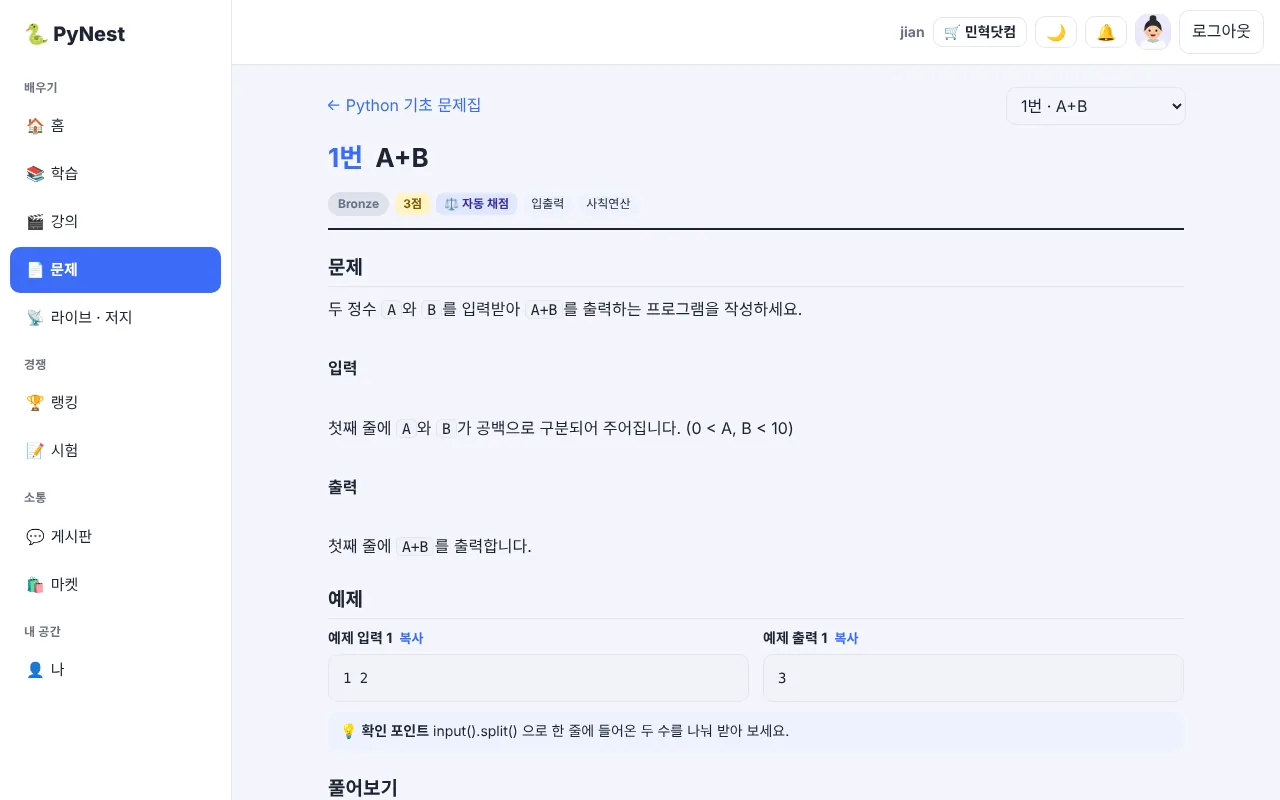
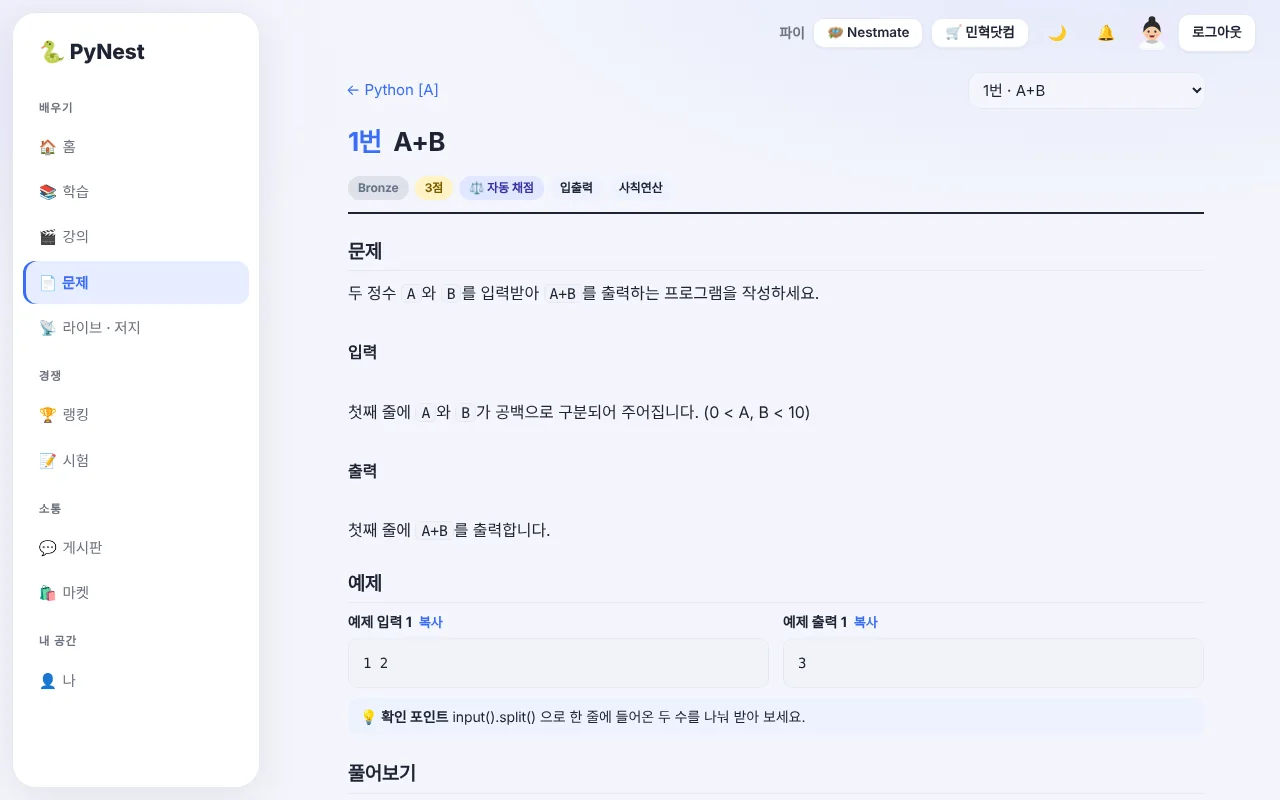
5.0.0d: 소개 페이지 화면·숫자를 실제 데이터 기준으로 교체
Claude-Session: https://claude.ai/code/session_011P4u1GPjN7Z9awdBiixxWZ

diff --git a/landing/index.html b/landing/index.html
@@ -343,10 +343,11 @@ footer a:hover{color:var(--blue)}
 <div class="band" style="margin-top:110px">
   <div class="wrap">
     <div class="stats">
-      <div class="stat rv"><b><span data-to="7">7</span></b><span>티어 체계</span></div>
-      <div class="stat rv s1"><b><span data-to="170">170</span><small>개</small></b><span>수집 가능한 배지</span></div>
-      <div class="stat rv s2"><b><span data-to="3">3</span></b><span>이용 환경 · 웹, 앱, 카카오톡</span></div>
-      <div class="stat rv s3"><b><span data-to="0">0</span><small>분</small></b><span>설치 시간 · 브라우저에서 바로 실행</span></div>
+      <div class="stat rv"><b><span data-to="1794">1,794</span><small>개</small></b><span>자동 채점 문제</span></div>
+      <div class="stat rv s1"><b><span data-to="8">8</span><small>개</small></b><span>문제집 · 기초부터 알고리즘까지</span></div>
+      <div class="stat rv s2"><b><span data-to="61">61</span><small>개</small></b><span>단계별 학습 레슨</span></div>
+      <div class="stat rv s3"><b><span data-to="170">170</span><small>개</small></b><span>수집 가능한 배지 · 8단계 티어</span></div>
+      </div>
     </div>
   </div>
 </div>
@@ -423,7 +424,7 @@ footer a:hover{color:var(--blue)}
       <p class="kicker">랭킹 · 성장</p>
       <h2 class="h2">경쟁은 가볍게,<br>성장은 눈에 보이게</h2>
       <p class="sub">새로 푼 문제와 완료한 레슨이 점수가 되고, 점수는 티어와 순위로 이어집니다.</p>
-      <ul class="pts"><li>주간·월간 랭킹과 7단계 티어</li><li>170종의 배지, 캐릭터 꾸미기와 학생 마켓</li><li>다크 모드를 지원합니다</li></ul>
+      <ul class="pts"><li>주간·월간 랭킹과 8단계 티어</li><li>170종의 배지, 캐릭터 꾸미기와 학생 마켓</li><li>다크 모드를 지원합니다</li></ul>
     </div>
   </div>
 </section>
@@ -623,8 +624,8 @@ footer a:hover{color:var(--blue)}
   $$('.rv').forEach(function(el){io?io.observe(el):el.classList.add('in')});
 
   /* 숫자 올라가기 */
-  function count(el){var to=+el.dataset.to,t0=performance.now(),d=1300;if(reduce||!to){el.textContent=to;return}
-    (function f(t){var p=Math.min(1,(t-t0)/d),e=1-Math.pow(1-p,3);el.textContent=Math.round(to*e);if(p<1)requestAnimationFrame(f)})(t0)}
+  function count(el){var to=+el.dataset.to,t0=performance.now(),d=1300;if(reduce||!to){el.textContent=to.toLocaleString('en-US');return}
+    (function f(t){var p=Math.min(1,(t-t0)/d),e=1-Math.pow(1-p,3);el.textContent=Math.round(to*e).toLocaleString('en-US');if(p<1)requestAnimationFrame(f)})(t0)}
   var did={};
   function after(box){
     $$('[data-to]',box).forEach(function(n){if(!n.dataset.d){n.dataset.d=1;count(n)}});

diff --git a/patchnotes.js b/patchnotes.js
@@ -1,5 +1,8 @@
 /* PyNest 패치 노트 — 하단 버전을 5번 누르면 보여요. 새 버전은 맨 위에 추가하세요. at 은 한국 시간(KST). */
 window.PYNEST_PATCHES = [
+  { v: '5.0.0d', at: '2026-11-09 02:30', t: '🖼 소개 페이지를 실제 화면으로', items: [
+    '소개 페이지의 화면 미리보기를 실제 PyNest 화면(문제집·강의 이름, 문제 수)으로 바꿨어요. 학생 이름은 가렸어요.',
+    '숫자도 실제 값으로 맞췄어요. (문제 1,794개 · 문제집 8개 · 레슨 61개 · 배지 170개)'] },
   { v: '5.0.0c', at: '2026-11-09 02:05', t: '💎 레이아웃 세련화 · 새 앱(APK)', items: [
     'PC는 떠 있는 둥근 사이드바와 넓은 본문, 모바일은 떠 있는 하단 탭바로 바꿨어요. 카드·통계·목록도 더 깔끔하게 다듬었어요.',
     '안드로이드 앱을 새로 만들었어요(1.0.0). 홈의 앱 카드에서 받을 수 있고, 새 앱 버전이 나오면 앱 안에서 알려줘요.',

diff --git a/app.js b/app.js
@@ -64,7 +64,7 @@
   const tierTag = () => (myTier() === 'student' ? '' : ` · ${TIER_NAME[myTier()]}`);
 
   /* ---------- V3.1.0 : 티어 · 뱃지 · 이름(별명) · 난이도 ---------- */
-  const APP_VERSION = '5.0.0c';
+  const APP_VERSION = '5.0.0d';
   // 안드로이드 앱(APK) 직접 내려받기 — 구글 드라이브 파일 ID (바꾸려면 이 ID만 고치세요)
   const APK_ID = '17VUmyiC1f-G-FT1OqfArJqaeAcUWW6TB';
   const APK_LATEST = '1.0.0'; // 드라이브에 올린 최신 앱(APK) 버전

diff --git a/index.html b/index.html
@@ -45,7 +45,7 @@
   <link rel="manifest" href="manifest.webmanifest">
   <link rel="apple-touch-icon" href="icons/apple-touch-icon.png">
   <link rel="stylesheet" href="https://cdn.jsdelivr.net/gh/orioncactus/pretendard@v1.3.9/dist/web/variable/pretendardvariable-dynamic-subset.min.css">
-  <link rel="stylesheet" href="style.css?v=500c">
+  <link rel="stylesheet" href="style.css?v=500d">
 </head>
 <body>
   <div id="app"><p class="loading">불러오는 중…</p></div>
